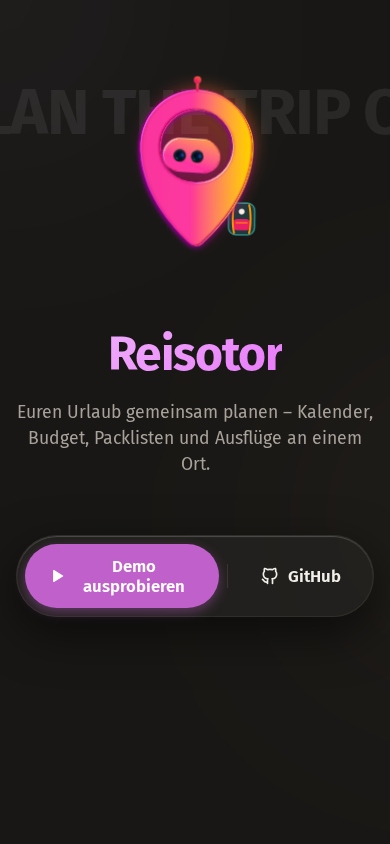
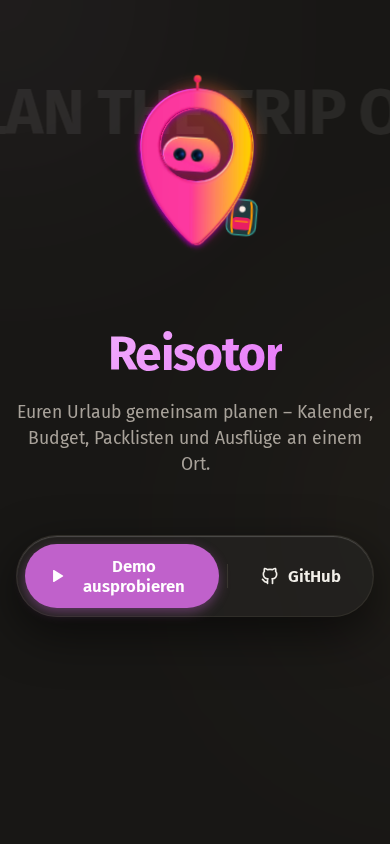
chore(landing): remove hero background marquee

diff --git a/frontend/src/views/LandingView.vue b/frontend/src/views/LandingView.vue
@@ -154,15 +154,15 @@ const onScrollGlow = () => {
   const steps = document.querySelectorAll('.scrolly-step');
   if (!steps.length) return;
   const viewportCenter = window.innerHeight / 2;
-  
+
   const opacities = Array.from(steps).map((step) => {
     const rect = step.getBoundingClientRect();
     const stepCenter = rect.top + rect.height / 2;
     const distance = Math.abs(stepCenter - viewportCenter);
-    const maxDist = window.innerHeight * 0.6; 
-    return Math.max(0, 1 - (distance / maxDist));
+    const maxDist = window.innerHeight * 0.6;
+    return Math.max(0, 1 - distance / maxDist);
   });
-  
+
   glowOpacities.value = opacities;
 };
 
@@ -229,16 +229,6 @@ onUnmounted(() => {
     <div class="glow-orb orb-3"></div>
 
     <header class="hero">
-      <div class="hero-bg-scroll-container" aria-hidden="true">
-        <div class="marquee-track">
-          <span class="marquee-item"
-            >PLAN THE TRIP OF YOUR DREAMS TOGETHER · NO STRESS ·&nbsp;</span
-          >
-          <span class="marquee-item" aria-hidden="true"
-            >PLAN THE TRIP OF YOUR DREAMS TOGETHER · NO STRESS ·&nbsp;</span
-          >
-        </div>
-      </div>
       <div class="hero-robot">
         <ReisotorRobot size="240px" phase="pack" />
       </div>
@@ -564,59 +554,6 @@ onUnmounted(() => {
   gap: var(--space-3);
   padding: var(--space-6) var(--space-3);
   margin-top: var(--space-3);
-}
-
-.hero-bg-scroll-container {
-  position: absolute;
-  top: 10%;
-  left: 0;
-  width: 100%;
-  overflow: hidden;
-  z-index: -1;
-  pointer-events: none;
-  opacity: 0.04;
-  user-select: none;
-}
-:root[data-theme='dark'] .hero-bg-scroll-container {
-  opacity: 0.08;
-}
-@media (prefers-color-scheme: dark) {
-  :root:not([data-theme='light']) .hero-bg-scroll-container {
-    opacity: 0.08;
-  }
-}
-
-.marquee-track {
-  display: flex;
-  width: max-content;
-  will-change: transform;
-  animation: marquee-scroll 35s linear infinite;
-}
-
-.marquee-item {
-  flex-shrink: 0;
-  font-size: clamp(4rem, 13vw, 11rem);
-  font-weight: 900;
-  line-height: 1;
-  letter-spacing: -0.02em;
-  white-space: nowrap;
-  color: var(--color-text);
-}
-
-@keyframes marquee-scroll {
-  0% {
-    transform: translate3d(0, 0, 0);
-  }
-  100% {
-    transform: translate3d(-50%, 0, 0);
-  }
-}
-
-@media (prefers-reduced-motion: reduce) {
-  .marquee-track {
-    animation: none !important;
-    transform: none !important;
-  }
 }
 
 .hero-robot {
